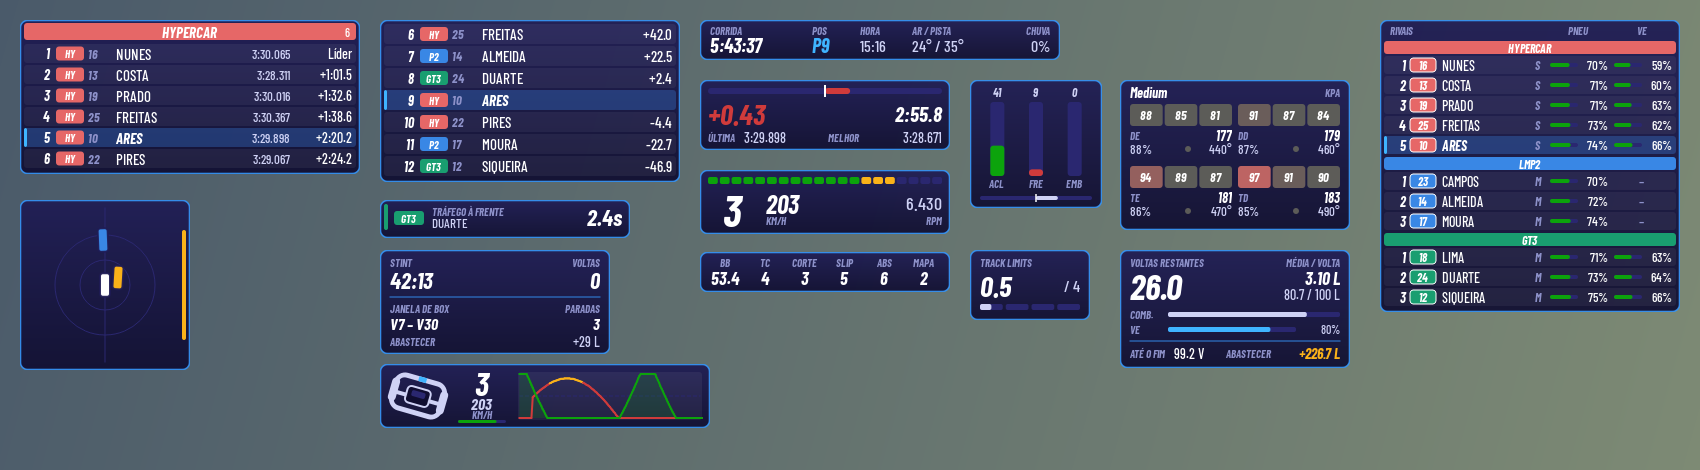
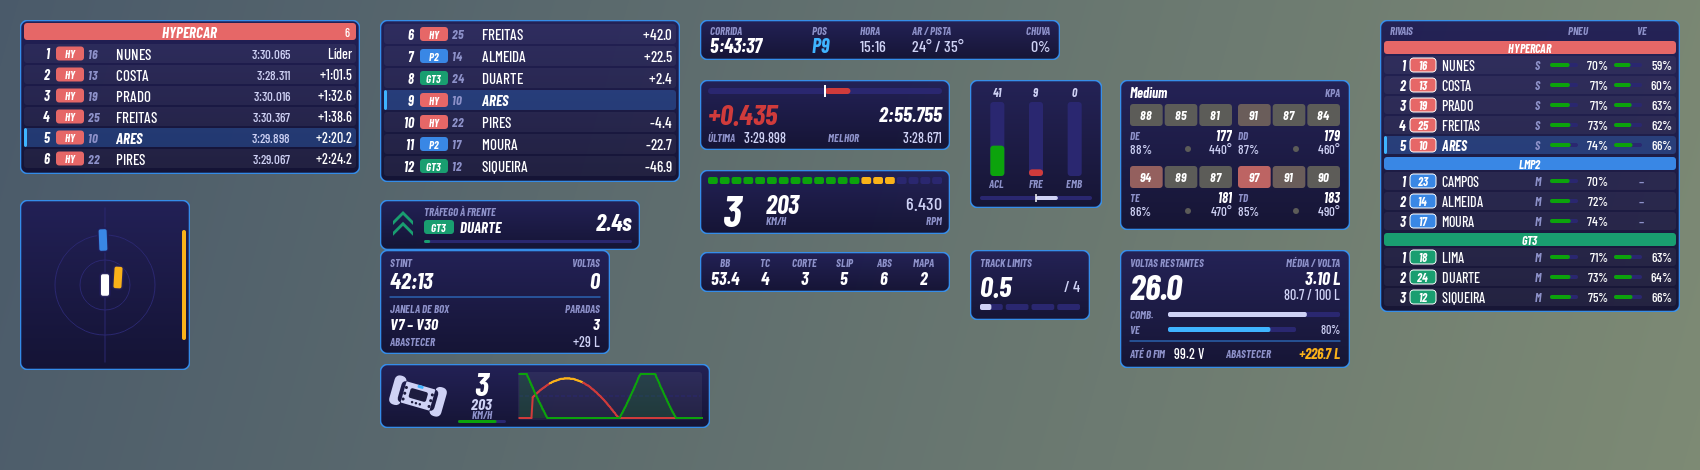
feat(widgets): volante em silhueta de GT3
Pegadas laterais mais altas, tela no centro e botões dos lados, no
lugar do aro desenhado em linha.

diff --git a/dmt_overlay/widgets/volante.py b/dmt_overlay/widgets/volante.py
@@ -91,30 +91,26 @@ class Volante(WidgetOverlay):
         self._desenhar_grafico(p, QRectF(138, 8, self.largura - 146, self.altura - 16), pontos)
 
     def _desenhar_volante(self, p: QPainter, centro: QPointF, angulo: float) -> None:
-        """Volante de GT3: aro retangular de cantos redondos, miolo com tela e dois raios."""
+        """Volante de GT3 em silhueta: pegadas laterais mais altas, tela no meio e botões dos lados."""
         p.save()
         p.translate(centro)
         p.rotate(angulo)
-        largura, altura = 50.0, 34.0
-        p.setBrush(Qt.BrushStyle.NoBrush)
-        p.setPen(QPen(tema.TEXTO_SECUNDARIO, 5, Qt.PenStyle.SolidLine, Qt.PenCapStyle.RoundCap, Qt.PenJoinStyle.RoundJoin))
-        p.drawRoundedRect(QRectF(-largura / 2, -altura / 2, largura, altura), 9, 9)
-        # Pegadas mais grossas nas laterais, como no volante de GT3.
-        p.setPen(QPen(tema.TEXTO_SECUNDARIO, 8, Qt.PenStyle.SolidLine, Qt.PenCapStyle.RoundCap))
-        for x in (-largura / 2, largura / 2):
-            p.drawLine(QPointF(x, -altura / 2 + 9), QPointF(x, altura / 2 - 9))
-        p.setPen(QPen(tema.TEXTO_SECUNDARIO, 4, Qt.PenStyle.SolidLine, Qt.PenCapStyle.RoundCap))
-        p.drawLine(QPointF(-largura / 2, 2), QPointF(-12, 2))
-        p.drawLine(QPointF(largura / 2, 2), QPointF(12, 2))
-        p.setPen(QPen(tema.TEXTO_SECUNDARIO, 2))
-        p.setBrush(tema.FUNDO_FIM)
-        p.drawRoundedRect(QRectF(-12, -8, 24, 17), 4, 4)
-        # Tela do volante e a marca de centro no topo do aro, para ver o quanto girou.
+        corpo = QPainterPath()
+        corpo.addRoundedRect(QRectF(-27, -15, 12, 30), 5, 5)
+        corpo.addRoundedRect(QRectF(15, -15, 12, 30), 5, 5)
+        corpo.addRoundedRect(QRectF(-19, -11, 38, 22), 4, 4)
+        p.fillPath(corpo.simplified(), tema.TEXTO_SECUNDARIO)
         p.setPen(Qt.PenStyle.NoPen)
-        p.setBrush(tema.TRILHO)
-        p.drawRoundedRect(QRectF(-7, -4.5, 14, 6), 1.5, 1.5)
-        p.setPen(QPen(tema.DESTAQUE, 5, Qt.PenStyle.SolidLine, Qt.PenCapStyle.FlatCap))
-        p.drawLine(QPointF(-4, -altura / 2), QPointF(4, -altura / 2))
+        p.setBrush(tema.FUNDO_FIM)
+        p.drawRoundedRect(QRectF(-9, -6, 18, 10), 2, 2)
+        for x in (-13.5, 13.5):
+            for y in (-5.0, 1.0, 7.0):
+                p.drawEllipse(QPointF(x, y), 1.6, 1.6)
+        for x in (-4.0, 0.0, 4.0):
+            p.drawEllipse(QPointF(x, 7.5), 1.3, 1.3)
+        # Marca de centro no topo, para ver o quanto girou.
+        p.setBrush(tema.DESTAQUE)
+        p.drawRoundedRect(QRectF(-3, -11, 6, 3), 1, 1)
         p.restore()
 
     def _desenhar_grafico(self, p: QPainter, area: QRectF, pontos) -> None:
